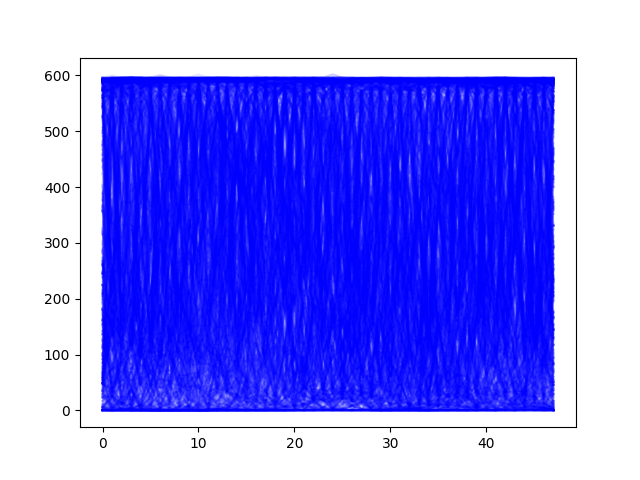
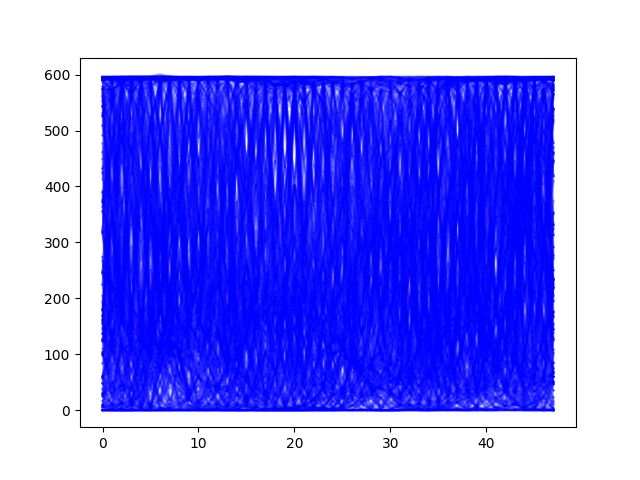
new branch

diff --git a/data_augmentation/augmented_data/read.py b/data_augmentation/augmented_data/read.py
@@ -3,7 +3,7 @@ import pickle
 import matplotlib.pyplot as plt
 
 # select_list
-select_list = [0.3]
+select_list = [0.1]
 
 
 # Load the data
